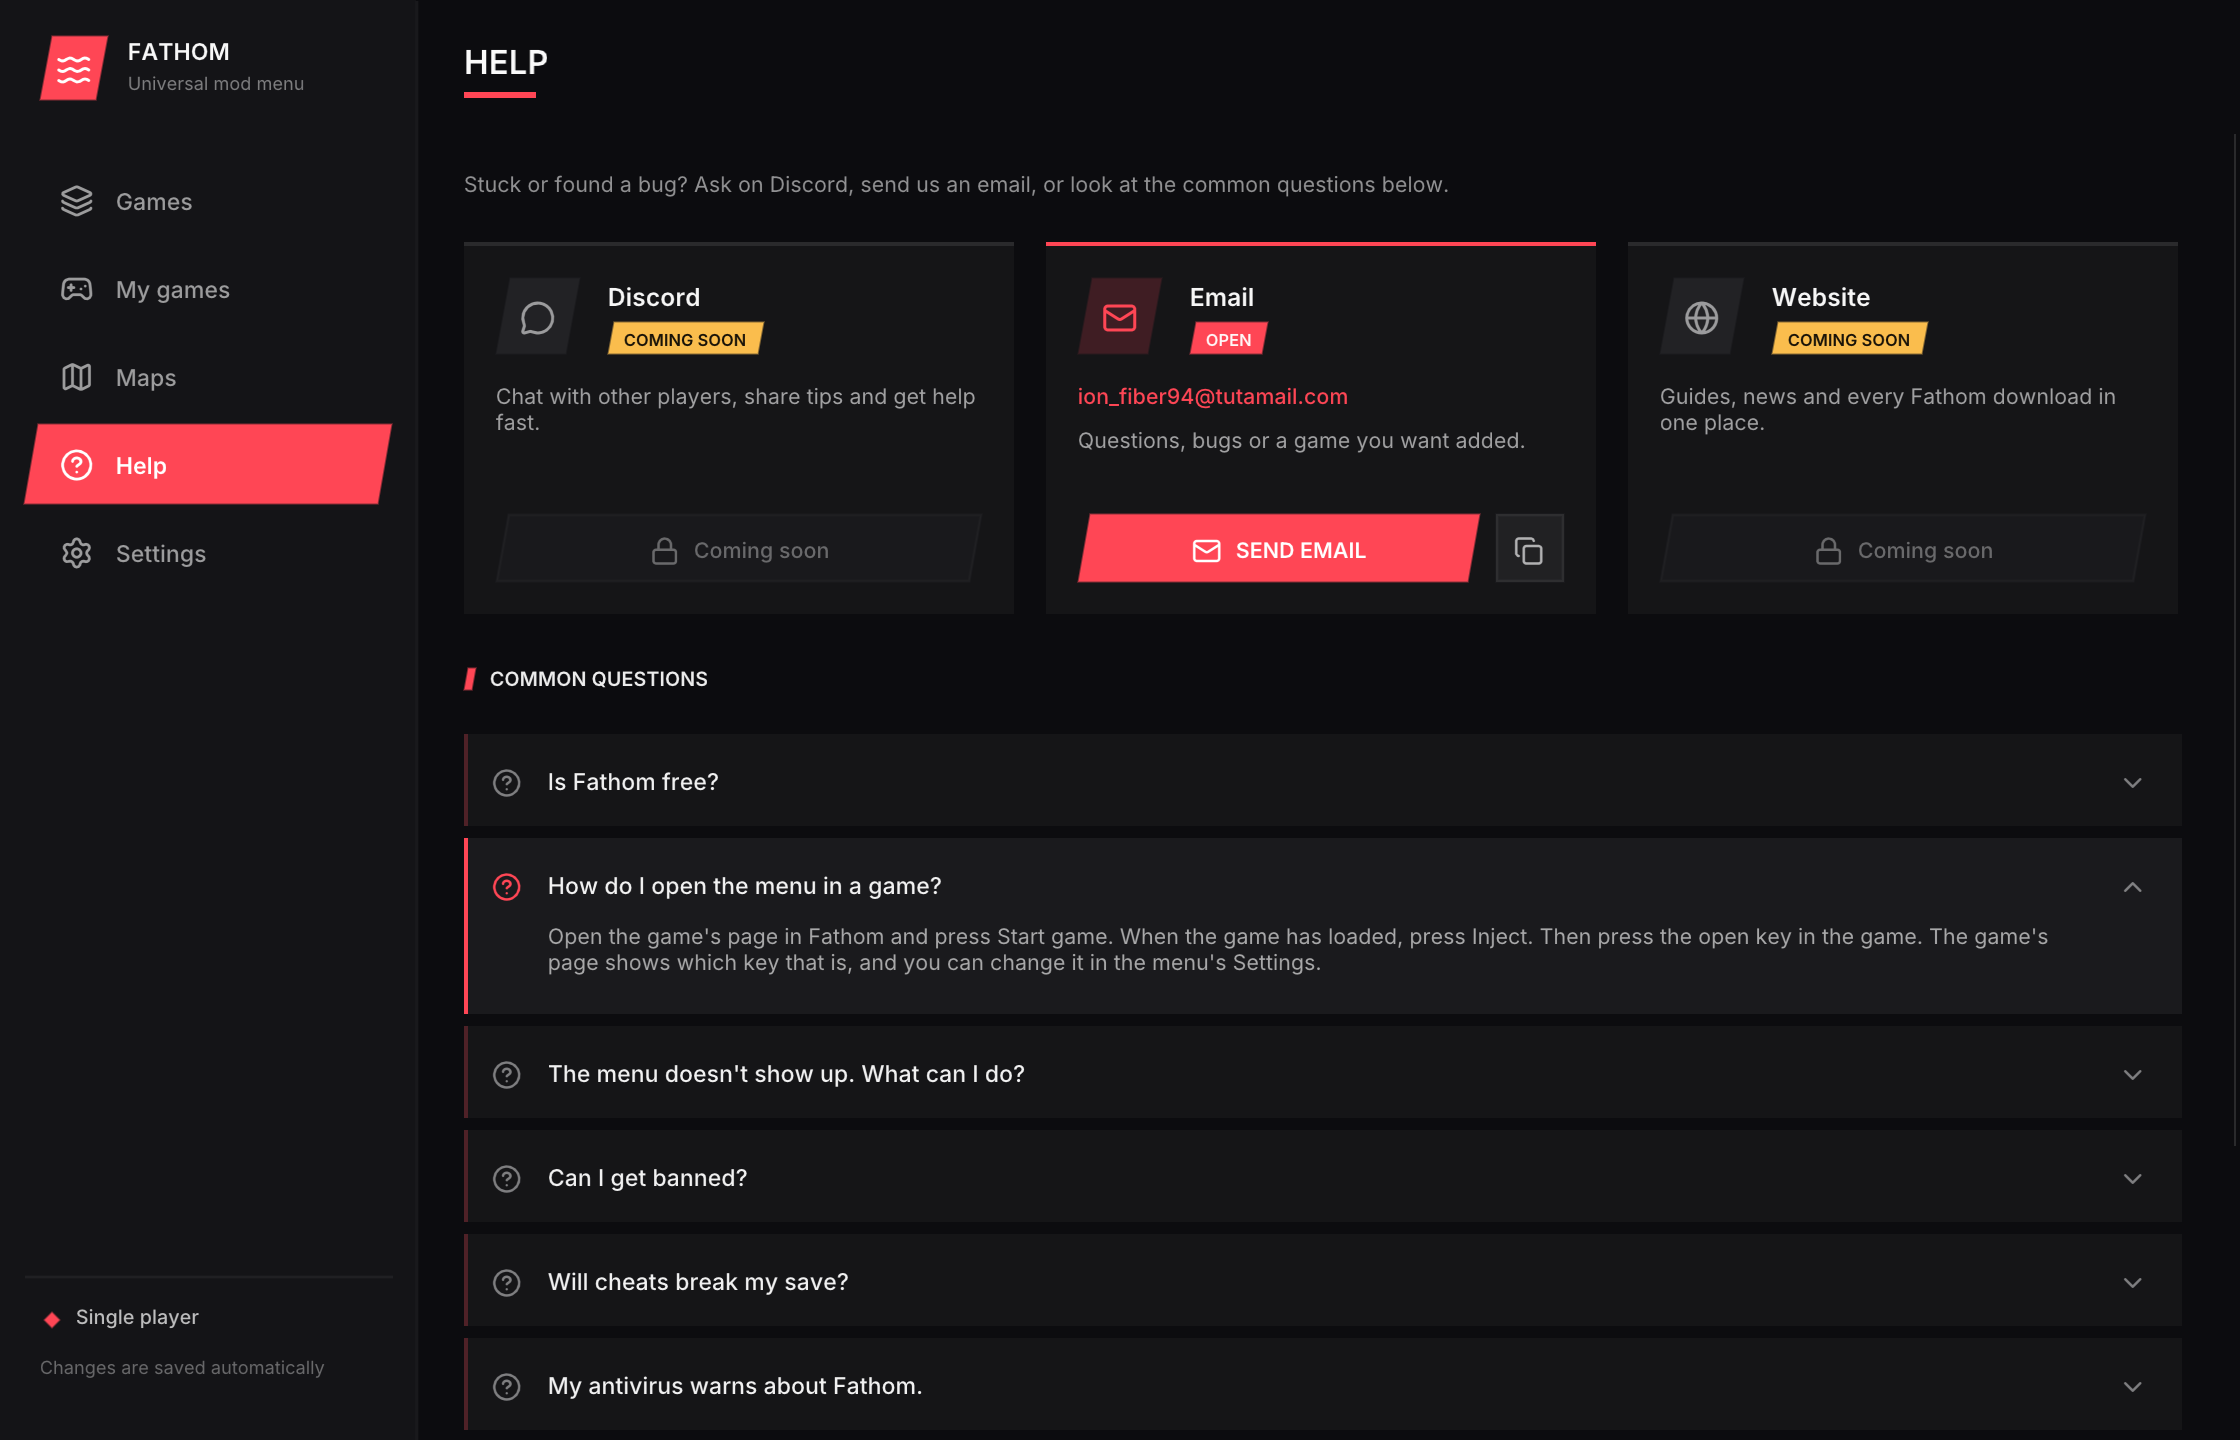
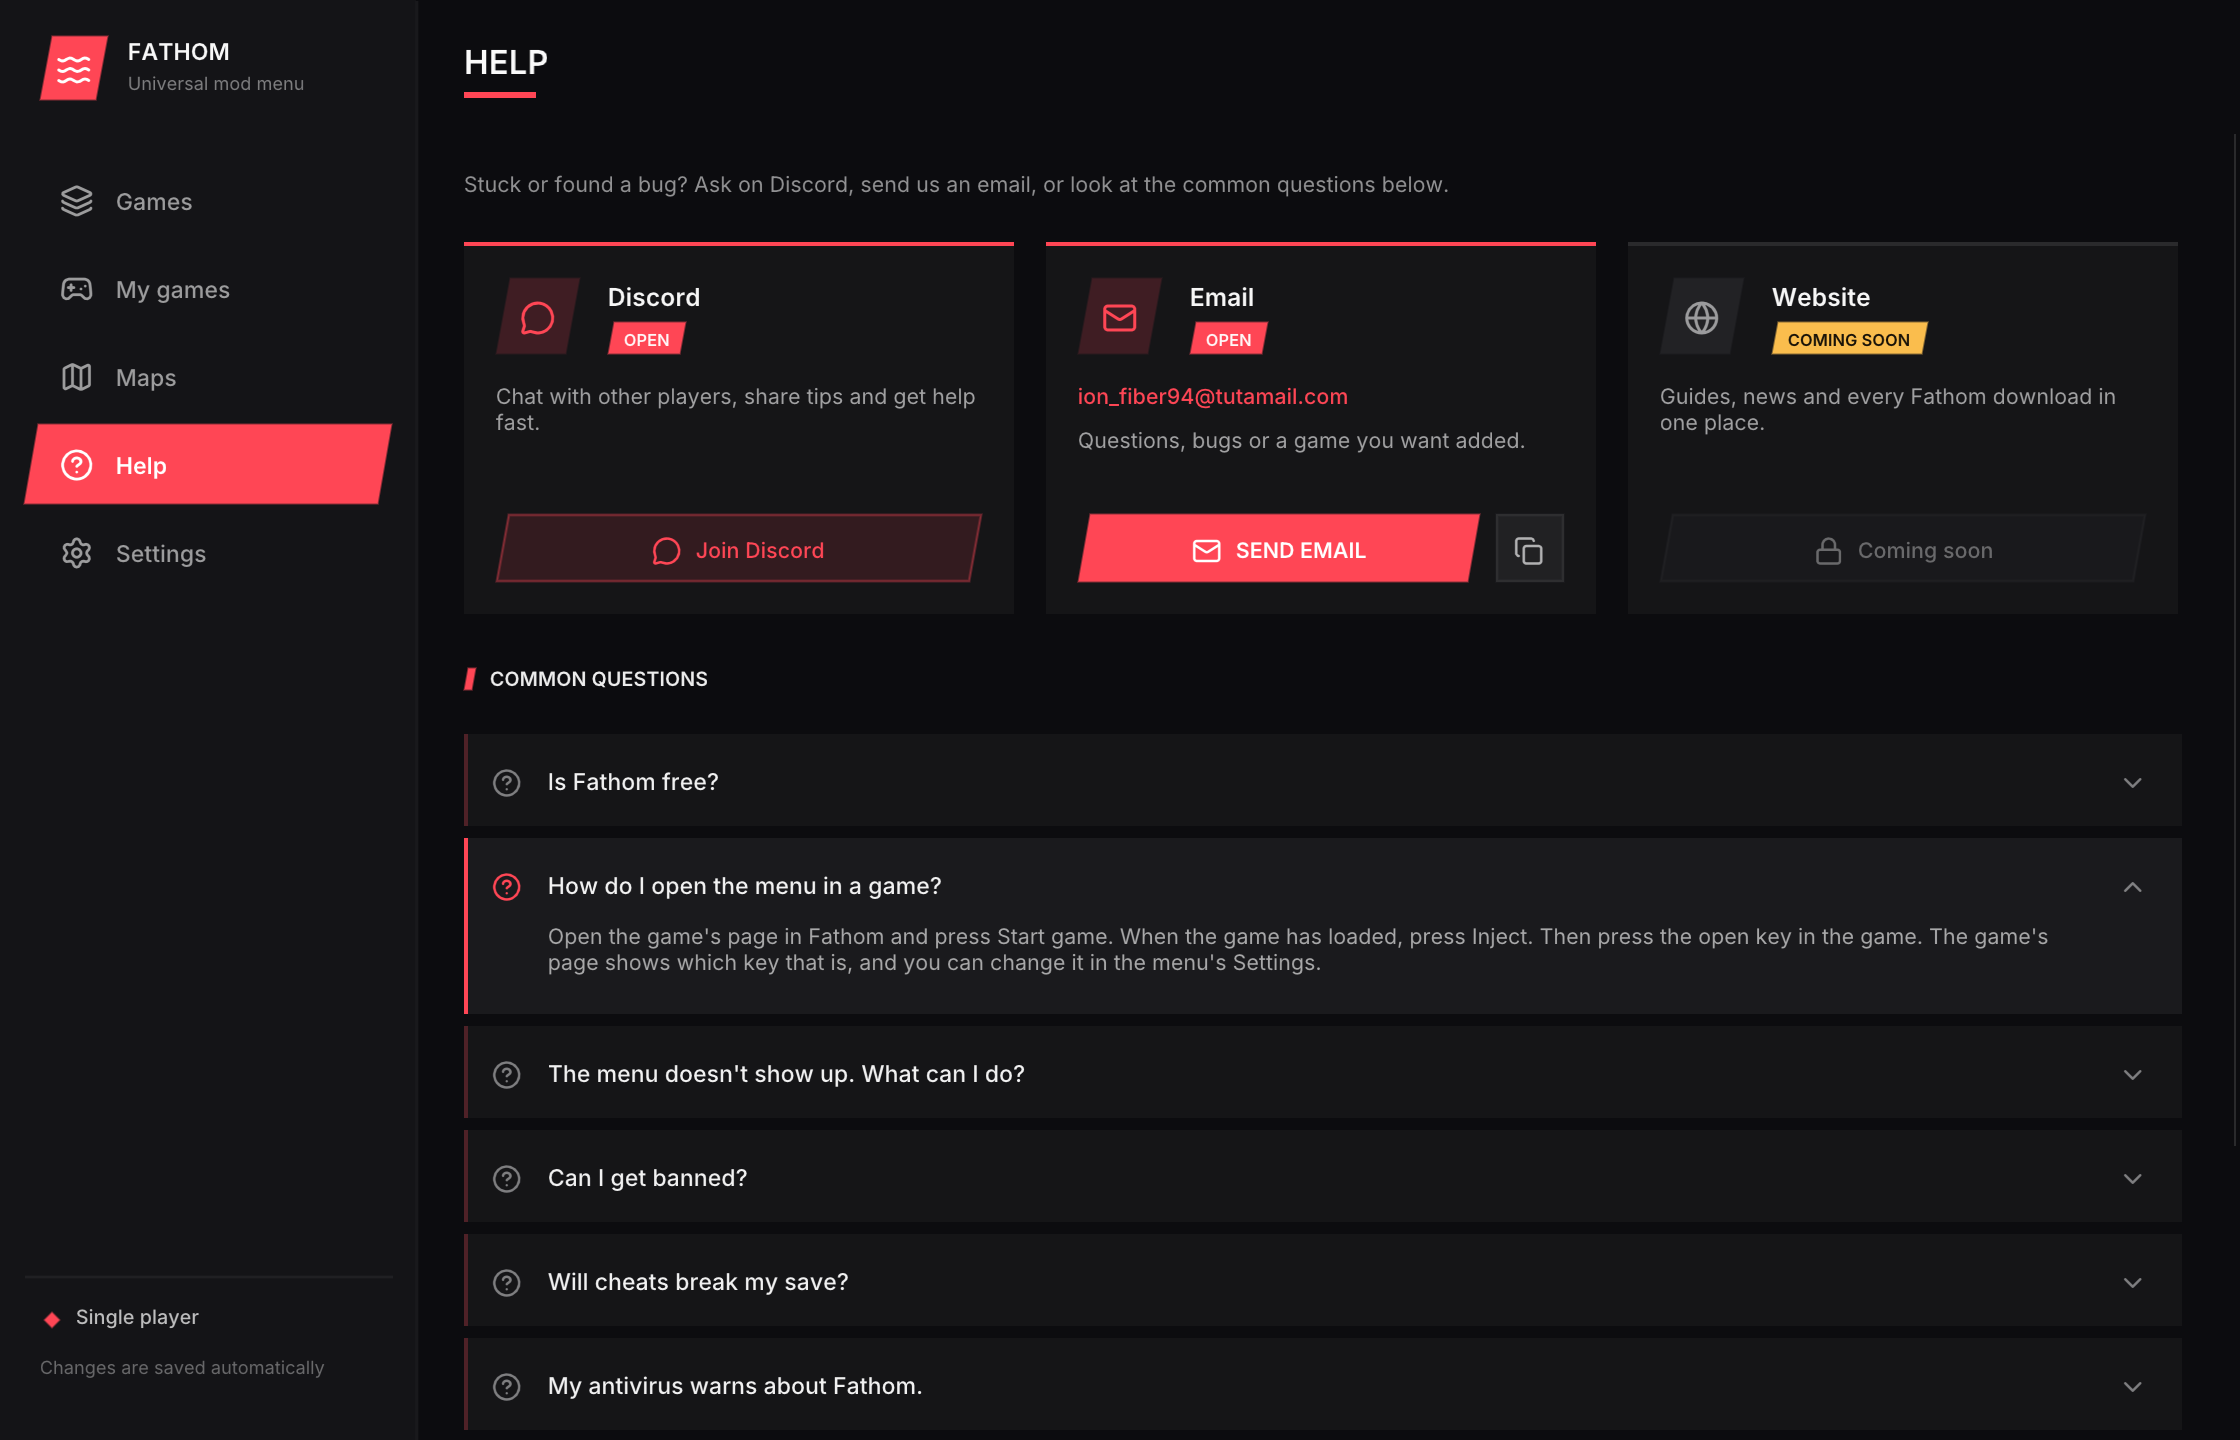
Open the Discord server from the Help page, release 1.16.3

Changed region(s): [[0.2188, 0.3438, 0.4375, 0.4062], [0.2188, 0.1875, 0.3438, 0.25]]

diff --git a/src/launcher/home.cpp b/src/launcher/home.cpp
@@ -127,7 +127,7 @@ void Home::Draw() {
 namespace {
 
 const char* const kHelpEmail = "ion_fiber94@tutamail.com";
-const char* const kDiscordUrl = "";
+const char* const kDiscordUrl = "https://discord.gg/vsyAbTkvRm";
 const char* const kWebsiteUrl = "";
 
 struct Faq {
